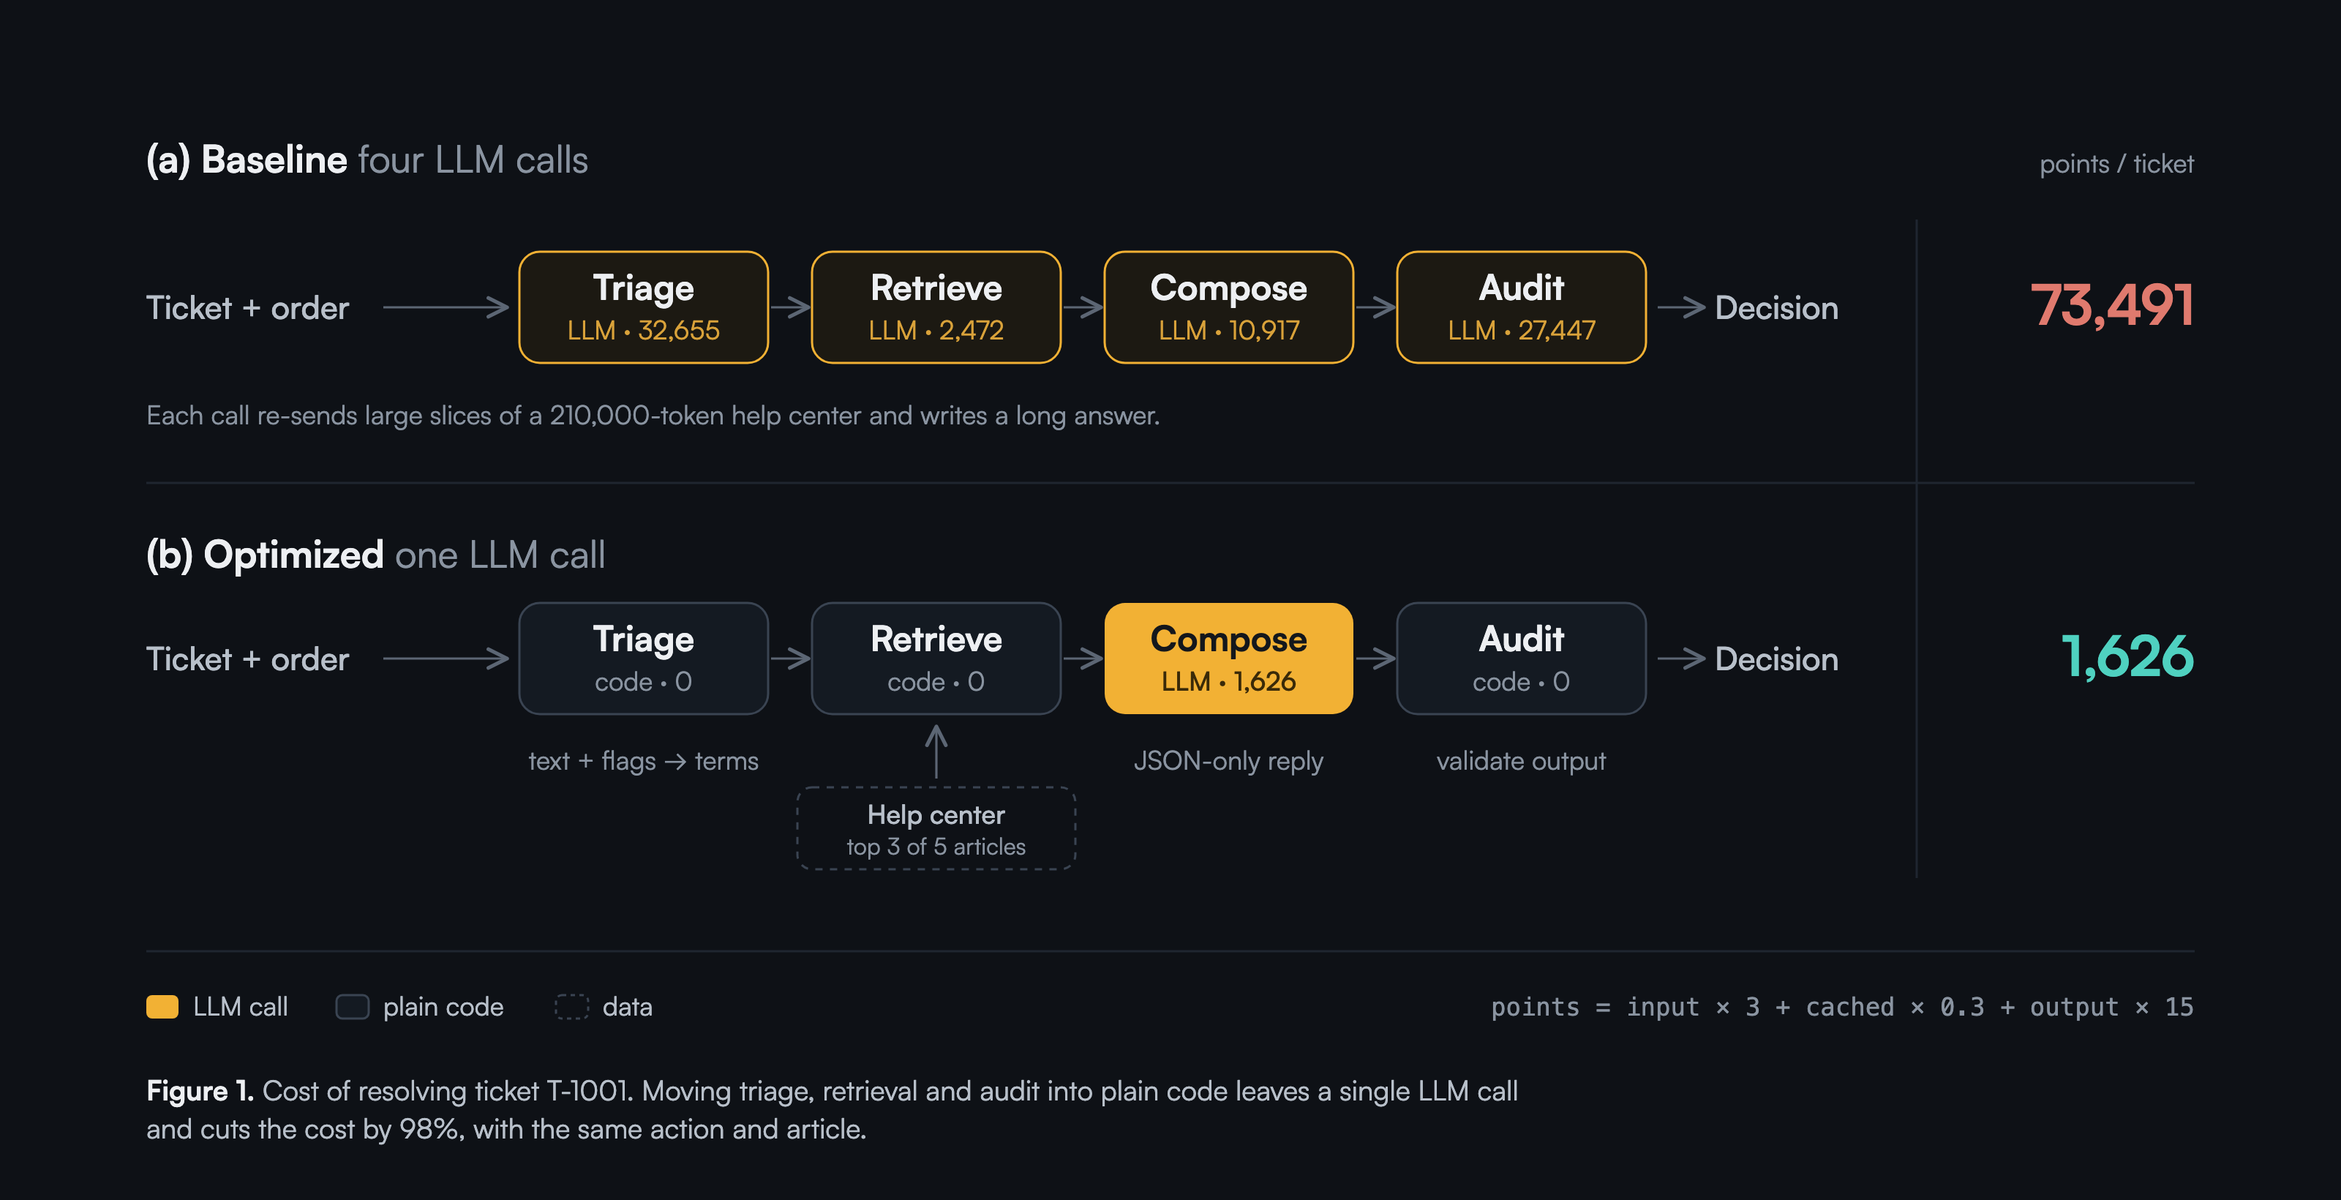
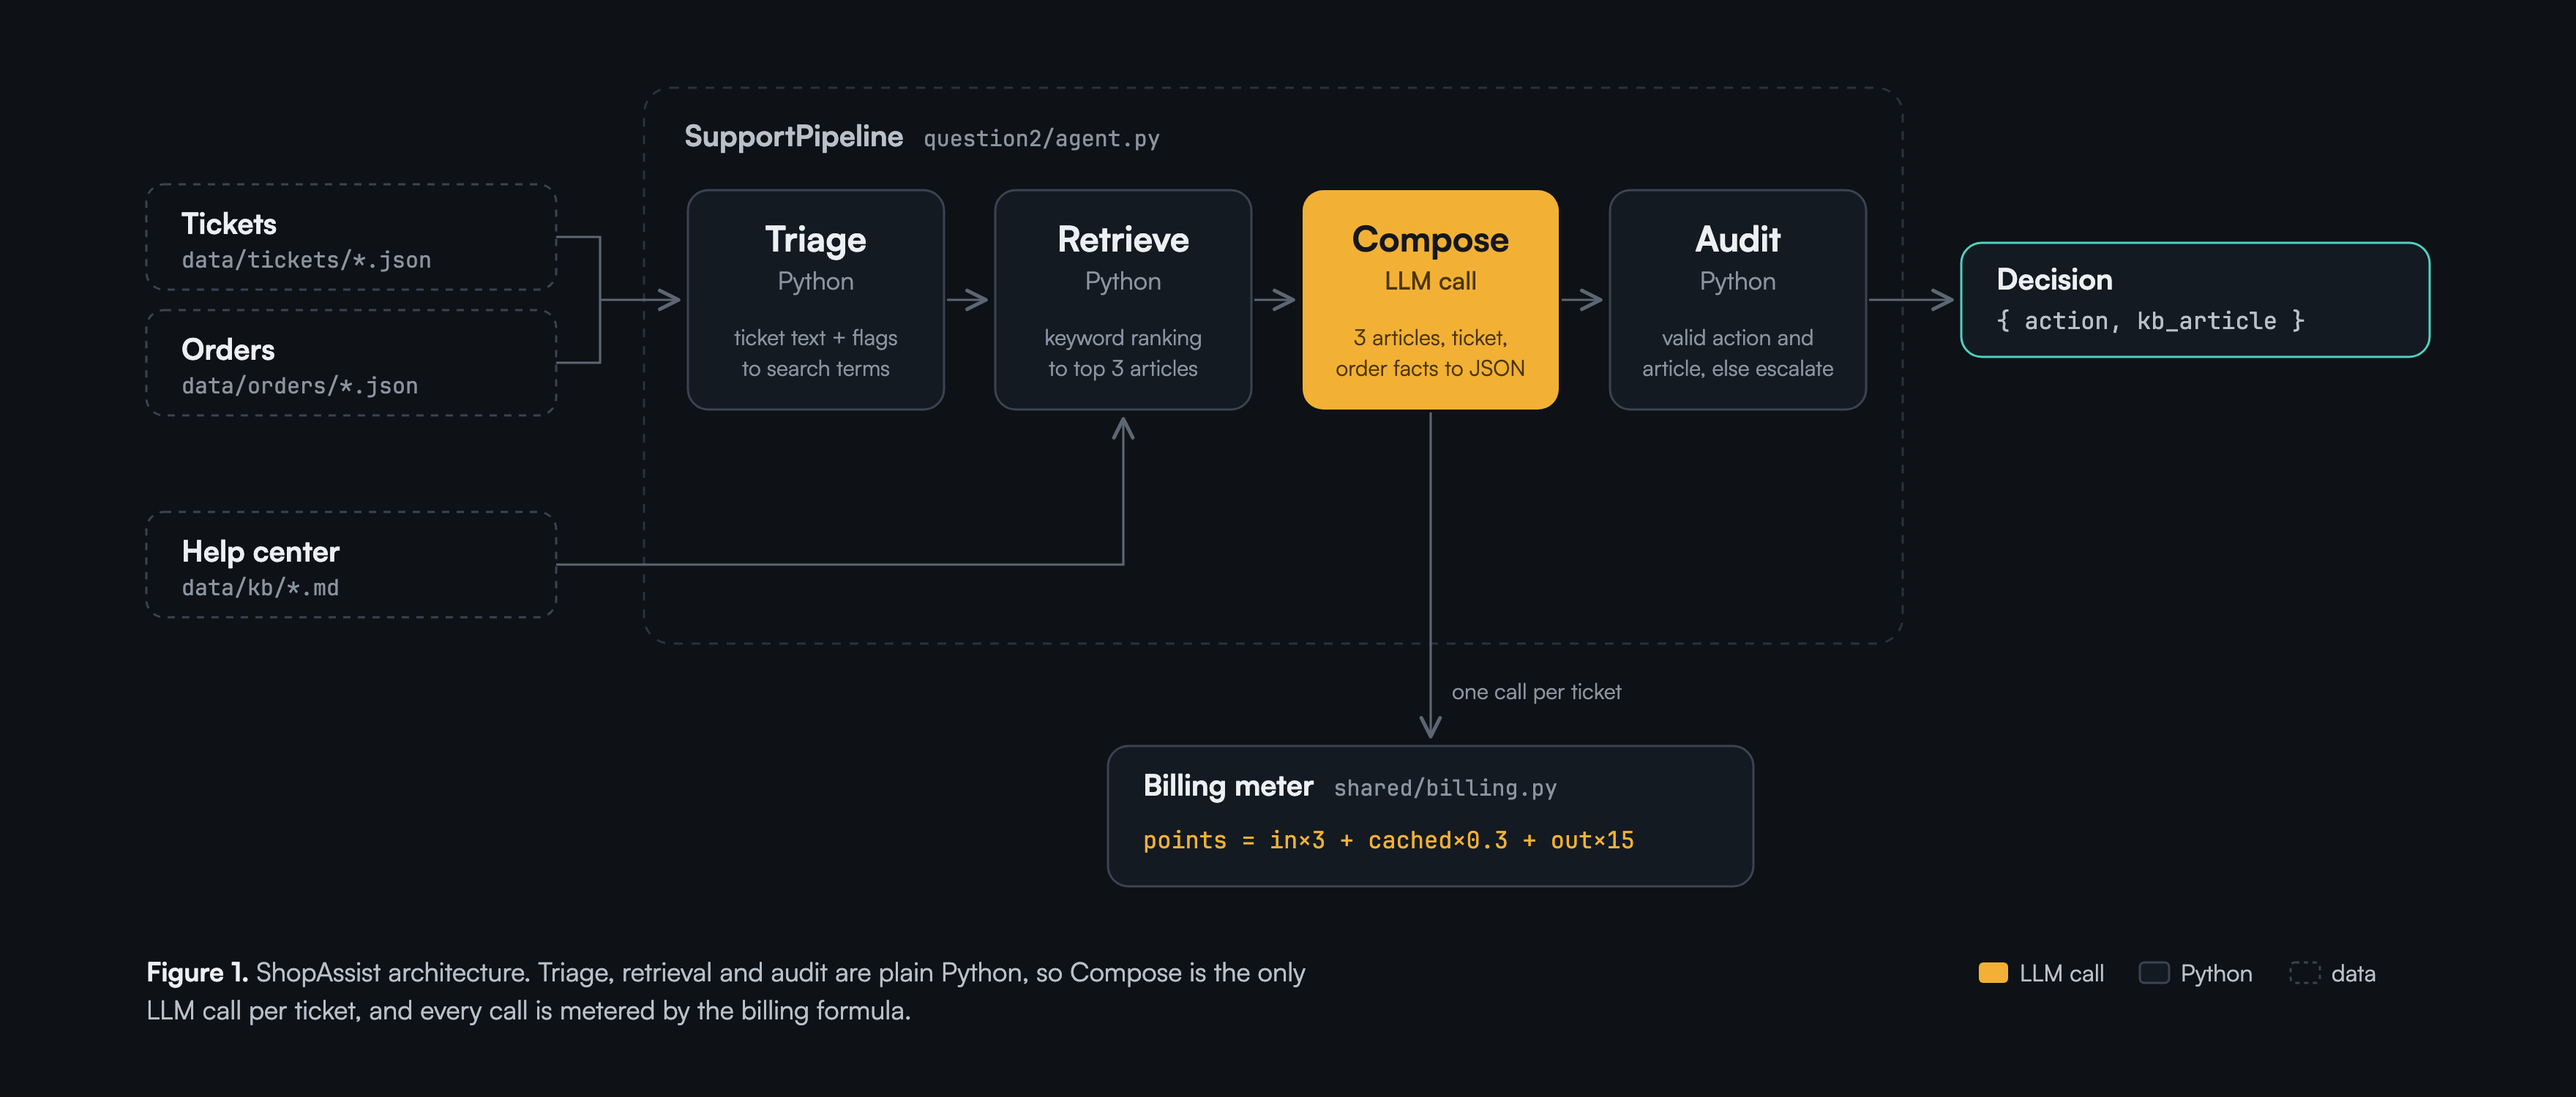
Replace the README figure with an architecture diagram.

diff --git a/README.md b/README.md
@@ -9,7 +9,7 @@
 >
 > **Results:** Q1 ~8,810 → 1,738 points per ticket, Q2 ~73,153 → 1,504 (details [below](#results-my-solution)).
 
-![ShopAssist pipeline: Triage and Retrieve and Audit run as plain code, only Compose calls the LLM. Cost for ticket T-1001 drops from 73,491 to 1,626 points.](docs/architecture.png)
+![ShopAssist architecture: ticket, order and help-center data flow through Triage, Retrieve, Compose and Audit in question2/agent.py. Compose is the only LLM call and is metered by shared/billing.py.](docs/architecture.png)
 
 **ShopAssist** is a Tier-1 support agent for an e-commerce company. For each ticket it:
 
